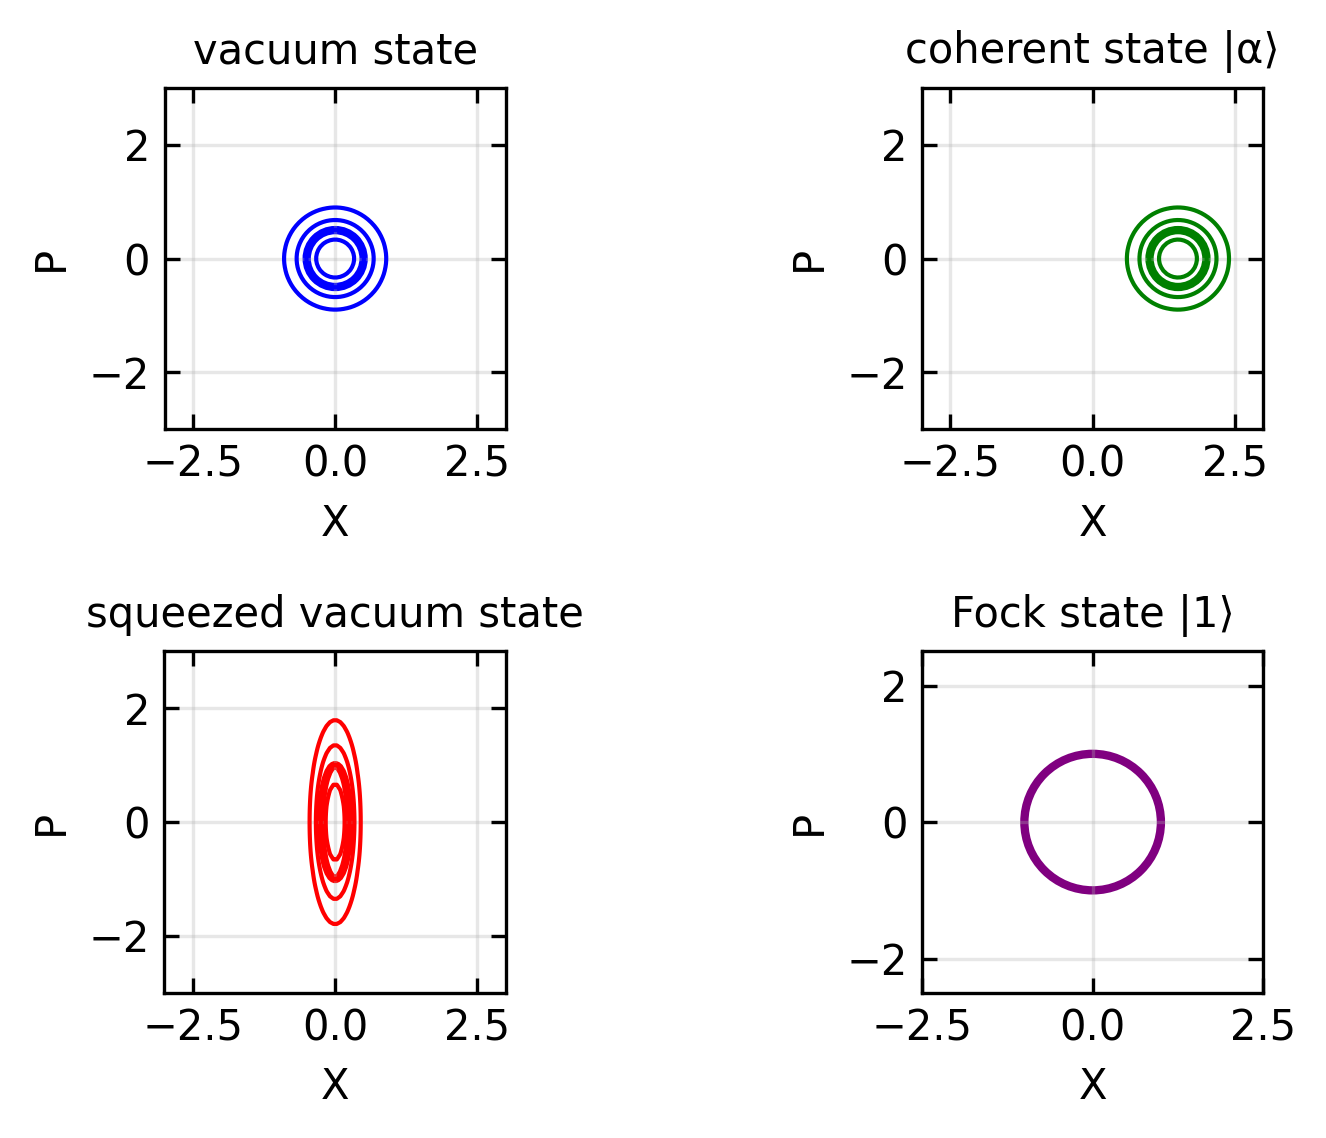
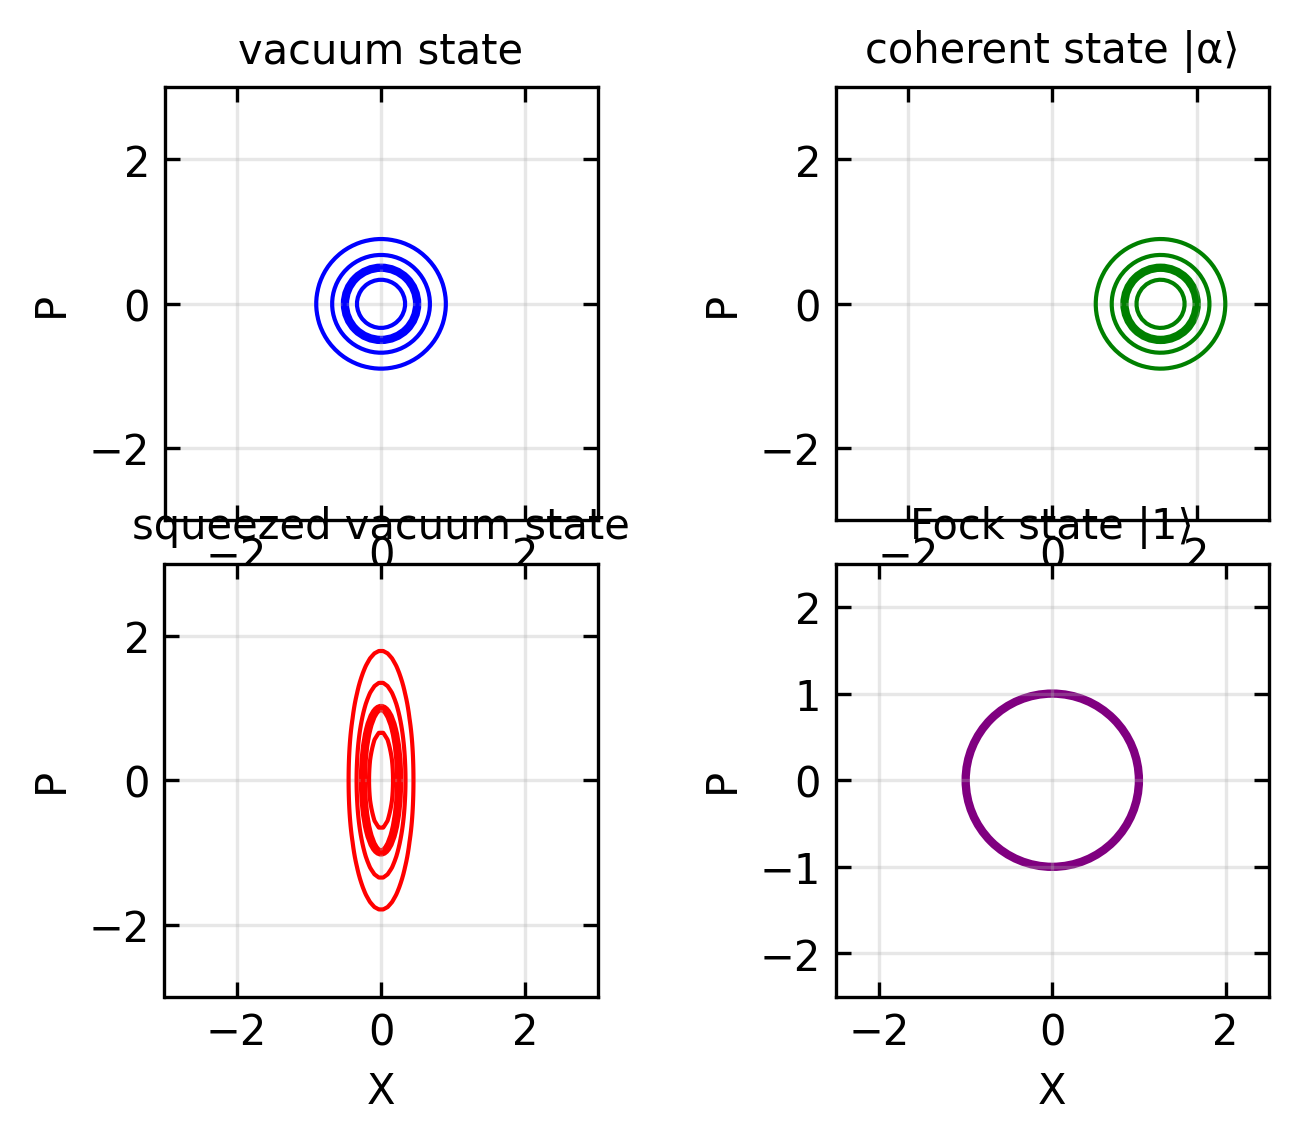
Built site for gh-pages

diff --git a/lectures/lecture08/03-lecture04.html b/lectures/lecture08/03-lecture04.html
@@ -600,13 +600,14 @@ window.Quarto = {
 <span id="cb1-67"><a href="#cb1-67" aria-hidden="true" tabindex="-1"></a>ax.set_yticks([])</span>
 <span id="cb1-68"><a href="#cb1-68" aria-hidden="true" tabindex="-1"></a>ax.set_zticks([])</span>
 <span id="cb1-69"><a href="#cb1-69" aria-hidden="true" tabindex="-1"></a></span>
-<span id="cb1-70"><a href="#cb1-70" aria-hidden="true" tabindex="-1"></a>plt.tight_layout()</span></code><button title="Copy to Clipboard" class="code-copy-button"><i class="bi"></i></button></pre></div>
+<span id="cb1-70"><a href="#cb1-70" aria-hidden="true" tabindex="-1"></a><span class="co"># Adjust the padding</span></span>
+<span id="cb1-71"><a href="#cb1-71" aria-hidden="true" tabindex="-1"></a>fig.subplots_adjust(left<span class="op">=</span><span class="fl">0.01</span>, right<span class="op">=</span><span class="fl">0.99</span>, top<span class="op">=</span><span class="fl">0.99</span>, bottom<span class="op">=</span><span class="fl">0.01</span>)</span></code><button title="Copy to Clipboard" class="code-copy-button"><i class="bi"></i></button></pre></div>
 </details>
 <div class="cell-output cell-output-display">
 <div id="fig-bloch-sphere" class="quarto-float quarto-figure quarto-figure-center anchored">
 <figure class="quarto-float quarto-float-fig figure">
 <div aria-describedby="fig-bloch-sphere-caption-0ceaefa1-69ba-4598-a22c-09a6ac19f8ca">
-<img src="03-lecture04_files/figure-html/fig-bloch-sphere-output-1.png" width="448" height="448" class="figure-img">
+<img src="03-lecture04_files/figure-html/fig-bloch-sphere-output-1.png" width="492" height="492" class="figure-img">
 </div>
 <figcaption class="quarto-float-caption-bottom quarto-float-caption quarto-float-fig" id="fig-bloch-sphere-caption-0ceaefa1-69ba-4598-a22c-09a6ac19f8ca">
 Figure&nbsp;1— Bloch sphere representation showing the relationship between quadrature components and quantum states
@@ -742,13 +743,13 @@ Figure&nbsp;1— Bloch sphere representation showing the relationship between qu
 <span id="cb2-76"><a href="#cb2-76" aria-hidden="true" tabindex="-1"></a>ax4.grid(<span class="va">True</span>, alpha<span class="op">=</span><span class="fl">0.3</span>)</span>
 <span id="cb2-77"><a href="#cb2-77" aria-hidden="true" tabindex="-1"></a>ax4.set_aspect(<span class="st">'equal'</span>)</span>
 <span id="cb2-78"><a href="#cb2-78" aria-hidden="true" tabindex="-1"></a></span>
-<span id="cb2-79"><a href="#cb2-79" aria-hidden="true" tabindex="-1"></a>plt.tight_layout()</span></code><button title="Copy to Clipboard" class="code-copy-button"><i class="bi"></i></button></pre></div>
+<span id="cb2-79"><a href="#cb2-79" aria-hidden="true" tabindex="-1"></a>fig.subplots_adjust(wspace<span class="op">=</span><span class="fl">0.1</span>, hspace<span class="op">=</span><span class="fl">0.1</span>)</span></code><button title="Copy to Clipboard" class="code-copy-button"><i class="bi"></i></button></pre></div>
 </details>
 <div class="cell-output cell-output-display">
 <div id="fig-quadrature-states" class="quarto-float quarto-figure quarto-figure-center anchored">
 <figure class="quarto-float quarto-float-fig figure">
 <div aria-describedby="fig-quadrature-states-caption-0ceaefa1-69ba-4598-a22c-09a6ac19f8ca">
-<img src="03-lecture04_files/figure-html/fig-quadrature-states-output-1.png" width="663" height="569" class="figure-img">
+<img src="03-lecture04_files/figure-html/fig-quadrature-states-output-1.png" width="649" height="571" class="figure-img">
 </div>
 <figcaption class="quarto-float-caption-bottom quarto-float-caption quarto-float-fig" id="fig-quadrature-states-caption-0ceaefa1-69ba-4598-a22c-09a6ac19f8ca">
 Figure&nbsp;2— Quadrature phase space representations of different quantum states

diff --git a/lectures/lecture02/02-lecture02.html b/lectures/lecture02/02-lecture02.html
@@ -805,7 +805,7 @@ k_1\sin(\theta_1)=k_2\sin(\theta_2)
 <span id="cb2-46"><a href="#cb2-46" aria-hidden="true" tabindex="-1"></a><span class="co"># Show the plot</span></span>
 <span id="cb2-47"><a href="#cb2-47" aria-hidden="true" tabindex="-1"></a>plt.show()</span></code><button title="Copy to Clipboard" class="code-copy-button"><i class="bi"></i></button></pre></div>
 </details>
-<div class="quarto-layout-panel" data-layout-ncol="3" data-column-width-right="20%" data-column-width-left="40%" data-column-width-middle="20%">
+<div class="quarto-layout-panel" data-layout-ncol="3" data-column-width-left="40%" data-column-width-right="20%" data-column-width-middle="20%">
 <div class="quarto-layout-row">
 <div id="701b2428" class="cell quarto-layout-cell" data-execution_count="3" style="flex-basis: 33.3%;justify-content: flex-start;">
 <div class="cell-output cell-output-display">
